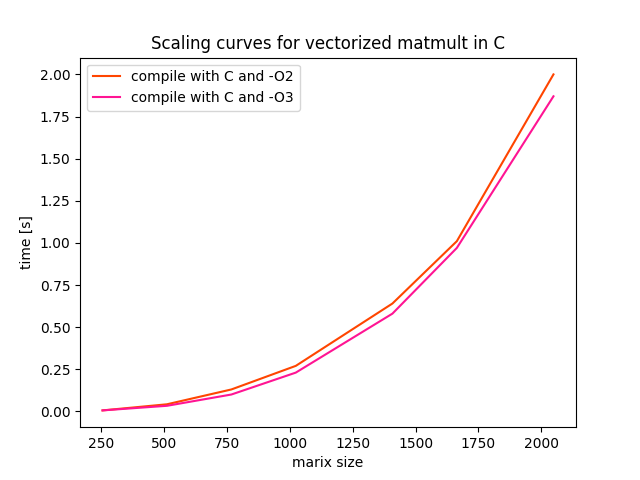
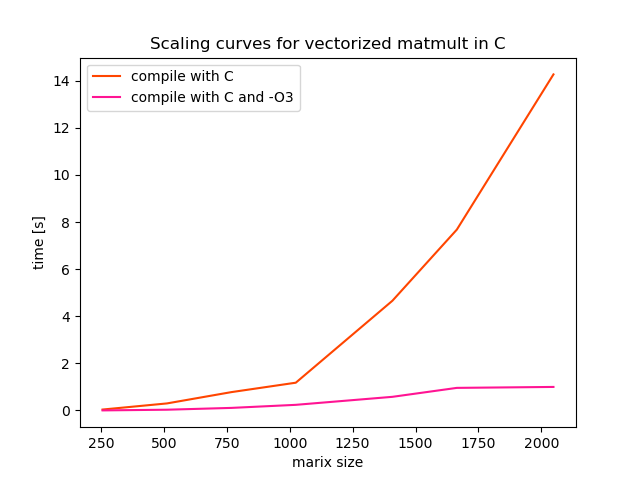
todays work

diff --git a/otp_matmult/matmul_vect_start.c b/otp_matmult/matmul_vect_start.c
@@ -84,42 +84,40 @@ typedef float vec __attribute__ (( vector_size(32) ));
 
 void matmul_v4(const float *A, const float *B, float *C, int M, int N, int K)
 {
-	if(K % 8 != 0)
+	int i,j,k;
+	// Rounded number of 8-element vec in a K
+	if(k % 8 != 0)
 	{
 		printf("Error, mismatch between matrix size and kernel size");
 		exit(EXIT_FAILURE);
 	}
-	int i, j, k;
-	//How to declare a vector dynamically, composed of X 32 bit elements ?
-	//vec *a = (vec*) aligned_alloc(32,X*32);  
 	
-	//How to access a vector sub element ?
-	// a[i/8][i%8] = A[i];
+	int n_K = K/8;
 	
-	//How to allocated and initialize a vector to a constant value
-	//vec acc = {0.0f, 0.0f, 0.0f, 0.0f, 0.0f, 0.0f, 0.0f, 0.0f};
+	vec acc;
+	vec *a = (vec*) aligned_alloc(32,M*n_K*32);
+	vec *b = (vec*) aligned_alloc(32,N*n_K*32);
 	
-	//1° Create the vectorized versions of A and B
-    vec *at = (vec*) aligned_alloc(32, 32*K/8*M);
-    vec *b = (vec*) aligned_alloc(32, 32*K/8*N);
+	for(j = 0; j < M; j++)	
+		for(i = 0; i < K; i++)
+			a[j*n_K + i/8][i%8] = A[i*M+j];
 	
-	//2° Fill the vectorized versions
-
-    for (i=0; i<M; i++)
-        for (j=0; j<K; j++)
-            at[(j+i*K)/8][(j+i*K)%8] = A[i+j*M];
-    for (j=0; j<K*N; j++)
-        b[j/8][j%8] = B[j];
+	for(j = 0; j < N; j++)	
+		for(i = 0; i < K; i++)
+			b[j*n_K + i/8][i%8] = B[j*K+i];
 	
-	//3° Do the i,j,k loops with the vectorized accumulate loop over k    
-    for (i=0; i<M; i++)
-        for (j=0; j<N; j++) {
-            vec acc = {0.0f, 0.0f, 0.0f, 0.0f, 0.0f, 0.0f, 0.0f, 0.0f};
-            for (k=0; k<K/8; k++) 
-                acc += at[k+i*K/8]*b[k+j*K/8];
-            for (k=0; k<8; k++)
-                C[i+j*M] += acc[k];
-        }
+	#pragma omp parallel for schedule(dynamic, 1) private(j,k,acc)
+	for(i = 0; i < N; i++)	
+		for(j = 0; j < M; j++)
+		{
+			for(k = 0; k < 8; k++)
+				acc[k] = 0.0;
+			for(k = 0; k < n_K; k++)
+				acc += a[j*n_K+k] * b[i*n_K+k];
+			
+			for(k = 0; k < 8; k++)
+				C[i*M+j] += acc[k];
+		}
 }
 
 
@@ -139,8 +137,25 @@ void kernel(const float *_a, const float *_b, float *_c,
 	vec t[ker_h/8][ker_w] = {};
 
 	//1° Loop over k that do the vectorized accumulate inside the kernel region using an implicit fma instruction
+    for (k = k_start; k<k_stop; k++){
+        for (b_n = 0; b_n< ker_w; b_n++){
+            val = _b[(j+b_n)*K+k];
+            vec beta = {val, val, val, val, val, val, val, val};
+
+            for(b_m = 0; b_m<ker_h/8; b_m++) {
+                vec alpha;
+                for (l=0; l<8; l++)
+                    alpha[l] = _a[i+k*M+b_m*8+l];
+                t[b_m][b_n] += alpha * beta;
+            }
+        }
+    }
 
 	//2° accumulate the result in the corresponding region of C
+    for(b_n = 0; b_n < ker_w; b_n++)
+		for(b_m = 0; b_m < ker_h/8; b_m++)
+			for(l = 0; l < 8; l++)
+				_c[i+(j+b_n)*M+b_m*8+l] += t[b_m][b_n][l];
 }
 
 
@@ -155,7 +170,9 @@ void matmul_v5(const float *A, const float *B, float *C, int M, int N, int K)
 	}
 
 	//Simple loop over M and N kernel regions that call the kernel
-
+    for(j = 0; j < N; j += ker_w)
+		for(i = 0; i < M; i += ker_h)
+			kernel(A, B, C, M, N, K, i, j, 0, K);
 }
 
 
@@ -187,7 +204,7 @@ int main()
 	size_t i;
 	int scale = 10;
     int value = 2048;
-	size_t M = value, N = value, K = value;
+	size_t M = 48*scale, N = 48*scale, K = 48*scale;
 	float *A, *B, *C, *C_bis;
 
 	float alpha = 1.0f, beta = 0.0f;
@@ -214,7 +231,7 @@ int main()
 
 	init_timing(&timer);
 
-	matmul_v4(A,B,C_bis,M,N,K);
+	matmul_v5(A,B,C_bis,M,N,K);
 	
 	printf("Custom sgemm: %f - Elapsed time: %f s\n", C_bis[M*N/2], elapsed_time(timer));
 	

diff --git a/otp_matmult/.ipynb_checkpoints/matmul_vect_start-checkpoint.c b/otp_matmult/.ipynb_checkpoints/matmul_vect_start-checkpoint.c
@@ -84,42 +84,40 @@ typedef float vec __attribute__ (( vector_size(32) ));
 
 void matmul_v4(const float *A, const float *B, float *C, int M, int N, int K)
 {
-	if(K % 8 != 0)
+	int i,j,k;
+	// Rounded number of 8-element vec in a K
+	if(k % 8 != 0)
 	{
 		printf("Error, mismatch between matrix size and kernel size");
 		exit(EXIT_FAILURE);
 	}
-	int i, j, k;
-	//How to declare a vector dynamically, composed of X 32 bit elements ?
-	//vec *a = (vec*) aligned_alloc(32,X*32);  
 	
-	//How to access a vector sub element ?
-	// a[i/8][i%8] = A[i];
+	int n_K = K/8;
 	
-	//How to allocated and initialize a vector to a constant value
-	//vec acc = {0.0f, 0.0f, 0.0f, 0.0f, 0.0f, 0.0f, 0.0f, 0.0f};
+	vec acc;
+	vec *a = (vec*) aligned_alloc(32,M*n_K*32);
+	vec *b = (vec*) aligned_alloc(32,N*n_K*32);
 	
-	//1° Create the vectorized versions of A and B
-    vec *at = (vec*) aligned_alloc(32, 32*K/8*M);
-    vec *b = (vec*) aligned_alloc(32, 32*K/8*N);
+	for(j = 0; j < M; j++)	
+		for(i = 0; i < K; i++)
+			a[j*n_K + i/8][i%8] = A[i*M+j];
 	
-	//2° Fill the vectorized versions
-
-    for (i=0; i<M; i++)
-        for (j=0; j<K; j++)
-            at[(j+i*K)/8][(j+i*K)%8] = A[i+j*M];
-    for (j=0; j<K*N; j++)
-        b[j/8][j%8] = B[j];
+	for(j = 0; j < N; j++)	
+		for(i = 0; i < K; i++)
+			b[j*n_K + i/8][i%8] = B[j*K+i];
 	
-	//3° Do the i,j,k loops with the vectorized accumulate loop over k    
-    for (i=0; i<M; i++)
-        for (j=0; j<N; j++) {
-            vec acc = {0.0f, 0.0f, 0.0f, 0.0f, 0.0f, 0.0f, 0.0f, 0.0f};
-            for (k=0; k<K/8; k++) 
-                acc += at[k+i*K/8]*b[k+j*K/8];
-            for (k=0; k<8; k++)
-                C[i+j*M] += acc[k];
-        }
+	#pragma omp parallel for schedule(dynamic, 1) private(j,k,acc)
+	for(i = 0; i < N; i++)	
+		for(j = 0; j < M; j++)
+		{
+			for(k = 0; k < 8; k++)
+				acc[k] = 0.0;
+			for(k = 0; k < n_K; k++)
+				acc += a[j*n_K+k] * b[i*n_K+k];
+			
+			for(k = 0; k < 8; k++)
+				C[i*M+j] += acc[k];
+		}
 }
 
 
@@ -139,8 +137,25 @@ void kernel(const float *_a, const float *_b, float *_c,
 	vec t[ker_h/8][ker_w] = {};
 
 	//1° Loop over k that do the vectorized accumulate inside the kernel region using an implicit fma instruction
+    for (k = k_start; k<k_stop; k++){
+        for (b_n = 0; b_n< ker_w; b_n++){
+            val = _b[(j+b_n)*K+k];
+            vec beta = {val, val, val, val, val, val, val, val};
+
+            for(b_m = 0; b_m<ker_h/8; b_m++) {
+                vec alpha;
+                for (l=0; l<8; l++)
+                    alpha[l] = _a[i+k*M+b_m*8+l];
+                t[b_m][b_n] += alpha * beta;
+            }
+        }
+    }
 
 	//2° accumulate the result in the corresponding region of C
+    for(b_n = 0; b_n < ker_w; b_n++)
+		for(b_m = 0; b_m < ker_h/8; b_m++)
+			for(l = 0; l < 8; l++)
+				_c[i+(j+b_n)*M+b_m*8+l] += t[b_m][b_n][l];
 }
 
 
@@ -155,7 +170,9 @@ void matmul_v5(const float *A, const float *B, float *C, int M, int N, int K)
 	}
 
 	//Simple loop over M and N kernel regions that call the kernel
-
+    for(j = 0; j < N; j += ker_w)
+		for(i = 0; i < M; i += ker_h)
+			kernel(A, B, C, M, N, K, i, j, 0, K);
 }
 
 

diff --git a/otp_matmult/.ipynb_checkpoints/figures-checkpoint.py b/otp_matmult/.ipynb_checkpoints/figures-checkpoint.py
@@ -6,14 +6,26 @@ import matplotlib.pyplot as plt
 matsize_list = [32, 64, 128, 256, 384, 512, 640, 768, 896, 1024, 1152, 1280, 1408, 1536, 1664, 1792, 1920, 2048]
 matsize_times_o3 = [1.8e-5, 4.2e-4, 1.4e-3, 6.6e-3, 2.4e-2, 5.6e-2, 0.17, 0.26, 0.35, 0.46, 0.60, 0.84, 1.11, 1.45, 1.85, 2.31, 2.93, 3.50]
 matsize_times_o2 = [9.8e-5, 7.6e-4, 1.4e-3, 1.0e-2, 3.2e-2, 7.2e-2, 0.13, 0.21, 0.32, 0.47, 0.65, 0.89, 1.17, 1.53, 1.92, 2.40, 2.95, 3.62]
-plt.plot(matsize_list, matsize_times_o2, label=r"compile with C and -O2", color='yellowgreen')
-plt.plot(matsize_list, matsize_times_o3, label=r"compile with C and -O3", color='cornflowerblue')
+plt.plot(matsize_list, matsize_times_o2, label=r"compile with C and -O2", color='orangered')
+plt.plot(matsize_list, matsize_times_o3, label=r"compile with C and -O3", color='deeppink')
 plt.xlabel(r"marix size")
 plt.ylabel('time [s]')
-plt.title('Comparison of scaling curves between C optimized with -O2 and -O3')
+plt.title('Scaling curves for vectorized matmult in C')
 plt.legend()
 plt.savefig('q10.png')
 plt.clf()
 
 #scaling curve q12
-matsize_list = [256, 512, ]
+matsize_list = [256, 512, 768, 1024, 1408, 1664, 2048]
+matsize_times_o3 = [3.8e-3, 3.3e-2, 0.11, 0.24, 0.58, 0.96, 1.0]
+matsize_times = [4.0e-2, 0.30, 0.78, 1.18, 4.66, 7.68, 14.27]
+plt.plot(matsize_list, matsize_times, label=r"compile with C", color='orangered')
+plt.plot(matsize_list, matsize_times_o3, label=r"compile with C and -O3", color='deeppink')
+plt.xlabel(r"marix size")
+plt.ylabel('time [s]')
+plt.title('Scaling curves for vectorized matmult in C')
+plt.legend()
+plt.savefig('q12.png')
+plt.clf()
+
+#scaling curves 

diff --git a/otp_matmult/figures.py b/otp_matmult/figures.py
@@ -17,9 +17,9 @@ plt.clf()
 
 #scaling curve q12
 matsize_list = [256, 512, 768, 1024, 1408, 1664, 2048]
-matsize_times_o3 = [5.7e-3, 3.3e-2, 0.10, 0.23, 0.58, 0.97, 1.87]
-matsize_times_o2 = [5.7e-3, 4.2e-2, 0.13, 0.27, 0.64, 1.01, 2.0]
-plt.plot(matsize_list, matsize_times_o2, label=r"compile with C and -O2", color='orangered')
+matsize_times_o3 = [3.8e-3, 3.3e-2, 0.11, 0.24, 0.58, 0.96, 1.0]
+matsize_times = [4.0e-2, 0.30, 0.78, 1.18, 4.66, 7.68, 14.27]
+plt.plot(matsize_list, matsize_times, label=r"compile with C", color='orangered')
 plt.plot(matsize_list, matsize_times_o3, label=r"compile with C and -O3", color='deeppink')
 plt.xlabel(r"marix size")
 plt.ylabel('time [s]')
@@ -27,3 +27,5 @@ plt.title('Scaling curves for vectorized matmult in C')
 plt.legend()
 plt.savefig('q12.png')
 plt.clf()
+
+#scaling curves 
